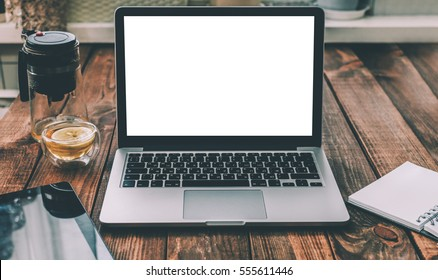
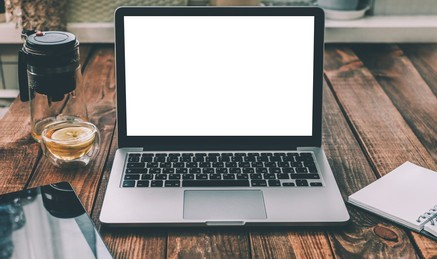
Update2

diff --git a/src/component/About.css b/src/component/About.css
@@ -22,11 +22,11 @@ h1 {
 .App-logo2 {
     border-radius: 1%; 
     opacity: o.1;
-    margin-right:5%;
+    margin-right:10%;
     margin-left:10%;
     margin-top: 10px;
     max-height: 1000px;
-    width: 1000px;
+    max-width: 750px;
 
 }
 .ZEE {

diff --git a/src/component/Home.css b/src/component/Home.css
@@ -10,7 +10,7 @@
 }
 .Hand {
     background: center url('Laptop201.jpg') no-repeat;
-    background-size: cover;
+    background-size: contain;
     border: solid black 2px;
     opacity: 100%;
 }
